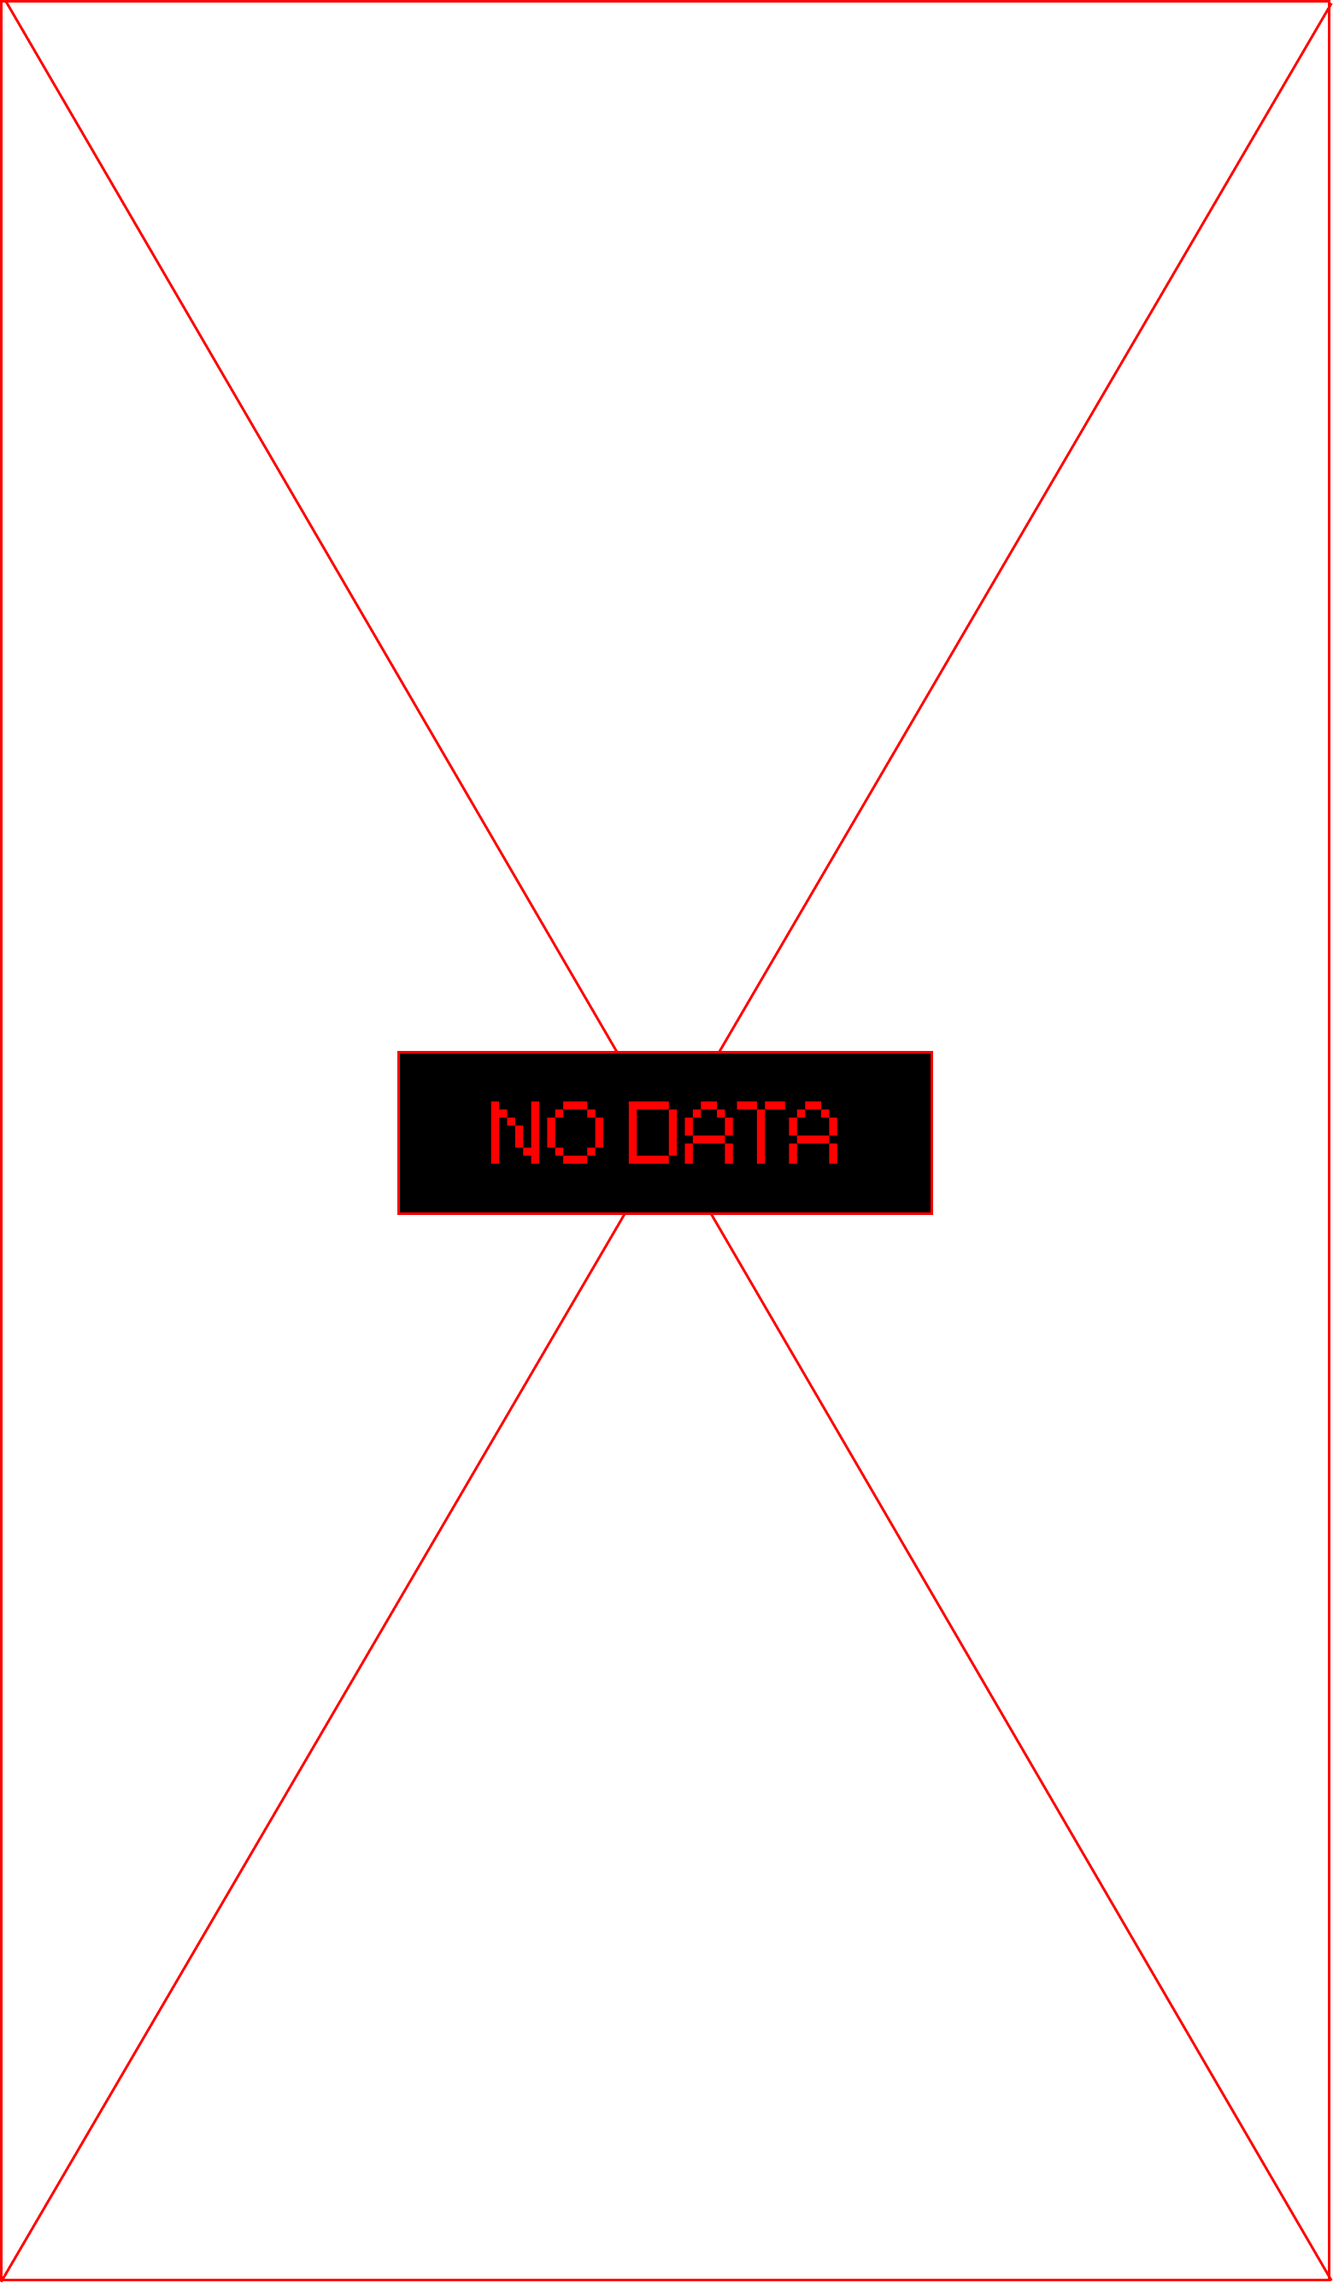
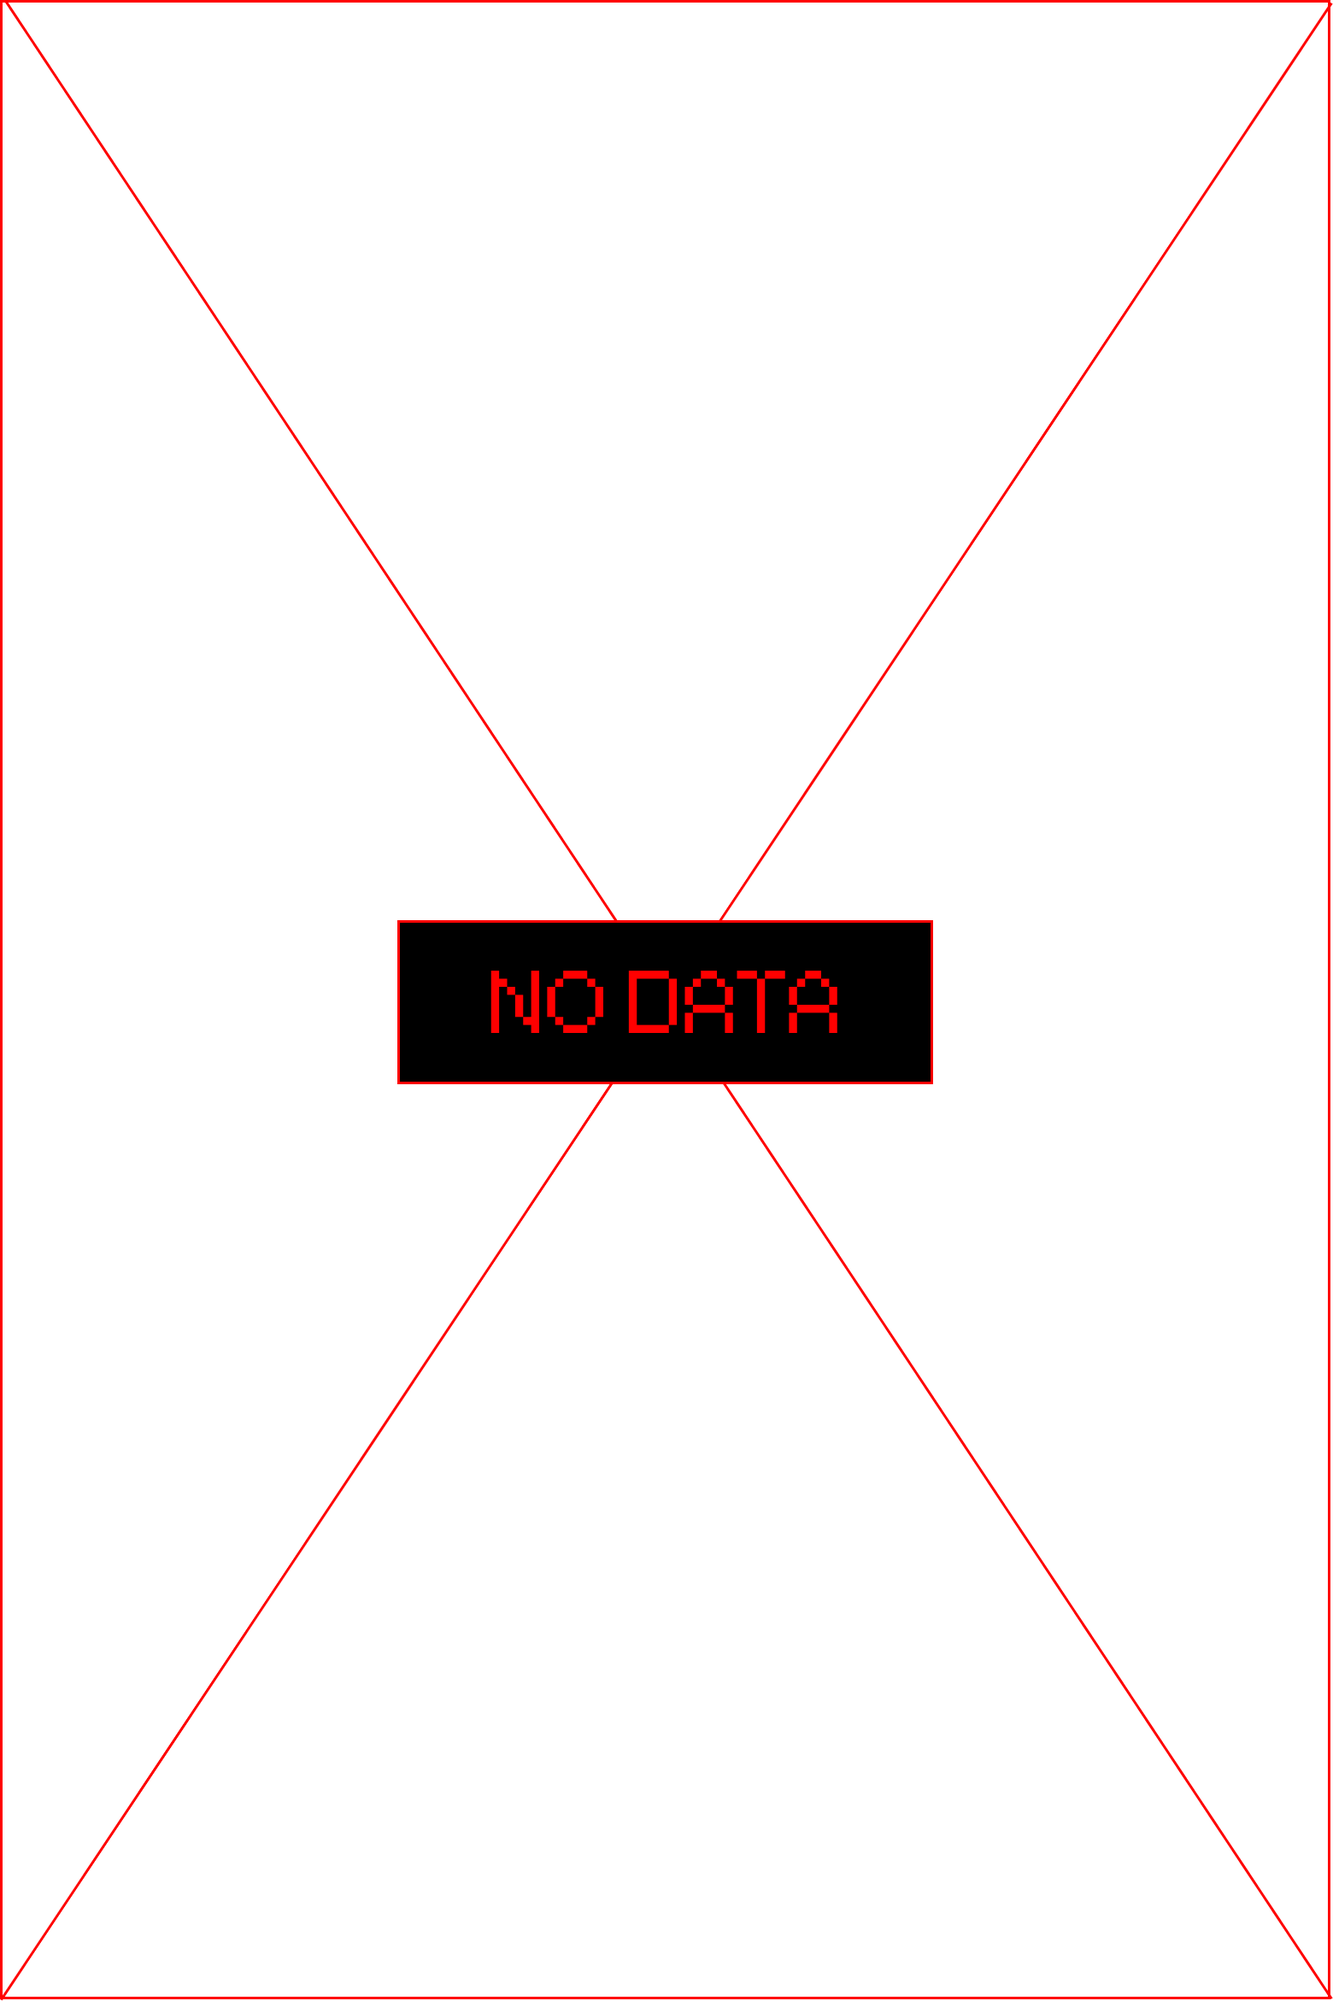
fixed

Changed region(s): [[0.0, 0.9974, 1.0, 1.0], [0.2769, 0.4675, 0.7077, 0.5611]]

diff --git a/pages/index.tsx b/pages/index.tsx
@@ -1,28 +1,43 @@
 import HeaderFooter from "../layout/HeaderFooter";
-import {useState} from "react";
+import { useState } from "react";
 import { Swiper, SwiperSlide } from "swiper/react";
 import { Autoplay, EffectCards, Thumbs, EffectCreative } from "swiper/modules";
 import "swiper/css";
 import Link from "next/link";
 
 export default function Home() {
- 
   return (
     <HeaderFooter>
       <main className="text-white">
-
         <div className=" relative pt-20">
-          <div className=" sm:w-8/12 w-11/12 mx-auto py-20">
-            <h1><img src="/slogan.png"  className=" sm:w-6/12 w-12/12" /></h1>
-            <h2 className="font-[digitalists] text-[#FF0000] text-xl ml-0 sm:ml-40 mt-6 sm:text-left text-center">A System to Combat Bitcoin Ecological Entropy Increase</h2>
-            <p className=" border-l-4 border-[#FF0000] pl-4 ml-0 sm:ml-48 mt-14 text-xs w-12/12 sm:w-8/12 relative leading-4">
-            <i className=" w-60 h-8 bg-[url('/slogan_tips.png')] bg-no-repeat bg-right-top bg-[length:100%_auto] absolute sm:-right-24 right-0 -top-8"></i>
-            REVSis obbrevuation for &apos;Revolution&apos; and &apos;Satoshis,&apos; It is utilising &apos;sats,&apos; the smallest unit, as entropy factors, REVS introduces a resonance mechanism to catalyze entropic fusion. This innovative approach combats the escalating disarray within the Bitcoin ecosystem, striving for a more ordered and stable digital currency environment.</p>
-              {/* <p className=" text-center py-4">
-                <Link href="/launch"><button className="cursor-pointer bg-[#FF0000]  my-4 px-14 py-3 text-xs sm:text-base drop-shadow-[0_5px_5px_rgba(255,0,0,0.75)]">Launch</button></Link>
-              </p> */}
+          <div className=" sm:w-8/12 w-11/12 mx-auto pt-36 pb-0">
+            <h1 className=" pl-24">
+              <img src="/slogan.png" className=" sm:w-8/12 w-12/12" />
+            </h1>
+            <h2 className="font-[digitalists] text-[#FF0000] text-xl ml-0 sm:ml-44 mt-1 sm:text-left text-center">
+              A System to Combat Bitcoin Ecological Entropy Increase
+            </h2>
+            <p className=" border-l-4 border-[#FF0000] pl-4 ml-0 sm:ml-[18rem] mt-8 text-xs w-12/12 sm:w-8/12 relative leading-4">
+              <i className=" w-60 h-8 bg-[url('/slogan_tips.png')] bg-no-repeat bg-right-top bg-[length:100%_auto] absolute sm:-right-24 right-0 -top-8"></i>
+              REVSis obbrevuation for &apos;Revolution&apos; and
+              &apos;Satoshis,&apos; It is utilising &apos;sats,&apos; the
+              smallest unit, as entropy factors, REVS introduces a resonance
+              mechanism to catalyze entropic fusion. This innovative approach
+              combats the escalating disarray within the Bitcoin ecosystem,
+              striving for a more ordered and stable digital currency
+              environment.
+            </p>
+            <p className=" text-center py-4">
+              <Link href="/launch">
+                <button className="cursor-pointer bg-[#FF0000]  my-4 px-14 py-3 text-xs sm:text-base hover:drop-shadow-[0_5px_5px_rgba(255,0,0,0.75)]">
+                  Launch
+                </button>
+              </Link>
+            </p>
           </div>
           <div className="bg-[url('/slogan_cover.png')] bg-no-repeat absolute top-0 left-0 right-0 bottom-0 bg-top bg-[length:80%_auto] -z-10 animate-pulse"></div>
+          <div className="bg-[url('/video_cover.png')] bg-no-repeat absolute h-10 left-0 right-0 bottom-0 bg-top bg-[length:80%_auto] -z-10"></div>
+
           <video
             className="absolute top-0 -z-20 object-cover w-full h-full "
             autoPlay
@@ -33,42 +48,74 @@ export default function Home() {
             <source src="/bg.mp4" type="video/mp4" />
           </video>
         </div>
-        <div className=" sm:w-8/12 w-11/12 mx-auto bg-[url('/project_vison_bg.png')] bg-no-repeat bg-center bg-[length:100%_auto] py-2 sm:py-32 flex gap-12 flex-col sm:flex-row">
-          <div className=" sm:w-6/12 w-12/12">
-            <h1><img src="/project_vision.png" className="w-7/12" /></h1>
-            <p className=" text-xs ml-4 mt-8 leading-4">REVS&apos;s target  is through the mechanism of entropic fusion, that&apos;s to enhance orderliness within the system, reducing the propensity towards chaos. This initiative is set to propel the cryptocurrency market towards greater stability and fairness</p>
-          </div>
-          <div className=" w-12/12 sm:w-6/12 p-4 sm:p-8 h-60 sm:h-80">
-            <div className="border-4 border-[#ff0000] w-full h-full relative z-10">
-              <video
-                className="absolute top-0 -z-20 object-cover w-full h-full "
-                playsInline
-                controls
-                poster="/cover.png"
-              >
-                <source src="/r.mp4" type="video/mp4" />
-              </video>
+        <div className=" bg-[url('/main_bg.png')] bg-no-repeat bg-[length:auto_100%] bg-center">
+          <div className=" sm:w-8/12 w-11/12 mx-auto bg-[url('/project_vison_bg.png')] bg-no-repeat bg-center bg-cover py-2 sm:py-32 flex gap-12 flex-col sm:flex-row">
+            <div className=" sm:w-5/12 w-12/12">
+              <h1>
+                <img src="/project_vision.png" className="w-8/12" />
+              </h1>
+              <p className=" text-xs ml-4 mt-8 leading-4">
+                REVS&apos;s target is through the mechanism of entropic fusion,
+                that&apos;s to enhance orderliness within the system, reducing
+                the propensity towards chaos. This initiative is set to propel
+                the cryptocurrency market towards greater stability and fairness
+              </p>
+            </div>
+            <div className=" w-12/12 sm:w-7/12 px-4 sm:px-8 h-60 sm:h-80">
+              <div className="bg-[url('/video_border.png')] bg-no-repeat bg-[length:100%_100%] p-2 pl-4 pb-4 w-full h-full relative z-10">
+                <video
+                  className="-z-20 object-cover w-full h-full "
+                  playsInline
+                  controls
+                  poster="/cover.png"
+                >
+                  <source src="/r.mp4" type="video/mp4" />
+                </video>
+              </div>
             </div>
           </div>
-        </div>
-        <div className=" bg-[#ff0000]">
-          <div className=" w-12/12 sm:w-8/12 mx-auto flex relative sm:py-14 pt-14 pb-4 sm:pb-4 justify-start sm:justify-end flex-row overflow-hidden pl-4">
-            <img src="/mode.png"  className="w-8/12 sm:w-5/12 absolute -right-20 sm:left-0 top-0 sm:bottom-0"/>
-            <div className="w-9/12 sm:w-7/12">
-              <h1 className="font-[digitalists] text-base sm:text-3xl">Project mechanics and gameplay information:</h1>
-              <h1 className="font-[digitalists] text-base sm:text-3xl">REVS Resonance V Pool Mechanism Introduction</h1>
-              <p className=" text-xs py-6 leading-5">A. The Resonance V pool is an inverted triangle with 3,000 layers, consisting of an unlimited number of layers with different ratios.<br />
-B. Each layer in the pool has a base exchange capacity of 2BTC.<br />
-C. The bottom layer of the inverted triangle is the first layer of the Resonance V pool, and the exchange ratio of this layer is 1:10.<br />
-D. Depending on the number of tokens in the Resonance V pool and the BTC exchange limit, the ratio of BTC to tokens will increase by 10 units for each higher layer.
-increases by 10 units </p>
+          <div className=" bg-[#ff0000]">
+            <div className=" w-12/12 sm:w-8/12 mx-auto flex relative sm:py-8 pt-14 pb-4 sm:pb-4 justify-start sm:justify-end flex-row  pl-4">
+              <img
+                src="/mode.png"
+                className="w-8/12 sm:w-[30%] absolute -right-20 sm:left-0 top-0 sm:top-auto sm:bottom-0 animate-[bounce_5s_linear_infinite]"
+              />
+              <div className="w-9/12 sm:w-8/12">
+                <h1 className="font-[digitalists] text-base sm:text-3xl whitespace-nowrap">
+                  REVS Resonance V Pool Mechanism Introduction
+                </h1>
+                <p className=" text-xs py-6 leading-5">
+                  A. The Resonance V pool is an inverted triangle with 3,000
+                  layers, consisting of an unlimited number of layers with
+                  different ratios.
+                  <br />
+                  B. Each layer in the pool has a base exchange capacity of
+                  2BTC.
+                  <br />
+                  C. The bottom layer of the inverted triangle is the first
+                  layer of the Resonance V pool, and the exchange ratio of this
+                  layer is 1:10.
+                  <br />
+                  D. Depending on the number of tokens in the Resonance V pool
+                  and the BTC exchange limit, the ratio of BTC to tokens will
+                  increase by 10 units for each higher layer. increases by 10
+                  units{" "}
+                </p>
+              </div>
             </div>
           </div>
-        </div>
-        <div className=" bg-[url('/tokenomics_bg.png')] bg-no-repeat bg-center bg-cover py-10 sm:py-32 sm:w-11/12 mx-auto">
-          <h1><img src="/token_title.png" className=" w-10/12 sm:w-4/12 mx-auto" /></h1>
-          <p className=" text-center font-[digitalists] text-base sm:text-2xl text-[#ff0000] py-4 sm:py-10">REVS - 210000000 pieces</p>
-          <img src="/tokenomics.png" className=" w-12/12 sm:w-8/12 mx-auto" />
+          <div className=" bg-[url('/tokenomics_bg.png')] bg-no-repeat bg-center bg-cover py-10 sm:pt-20 sm:pb-40 sm:w-11/12 mx-auto">
+            <h1>
+              <img
+                src="/token_title.png"
+                className=" w-10/12 sm:w-4/12 mx-auto"
+              />
+            </h1>
+            <p className=" text-center font-[digitalists] text-base sm:text-2xl text-[#ff0000] py-4 sm:pt-2 sm:pb-12">
+              REVS - 210000000 pieces
+            </p>
+            <img src="/tokenomics.png" className=" w-12/12 sm:w-8/12 mx-auto" />
+          </div>
         </div>
       </main>
     </HeaderFooter>

diff --git a/pages/launch.tsx b/pages/launch.tsx
@@ -111,17 +111,19 @@ export default function Home() {
   const getMyDataList = async() => {
     if(!!account){
       setShowMyDataList(true)
+      setShowInviteMyDataList(false)
       const {data:myDataList} = await getFloorDataByAddress(account)
       console.log("myDataList", myDataList)
       setMyDataList(myDataList)
     }else{
-      toast('💰 Please Connect wallet', config);
+      toast('❌ Please Connect wallet', config);
     }
   }
 
   const getMyInviteDataList = async() => {
     if(!!account){
       setShowInviteMyDataList(true)
+      setShowMyDataList(false)
       const {data:myInviteDataList} = await getInviteDataByAddress(account)
       console.log("myInviteDataList", myInviteDataList)
       setMyInviteDataList(myInviteDataList)
@@ -217,7 +219,7 @@ export default function Home() {
             </li>)}
         </ul>
       </div>}
-      <main className="text-white   bg-no-repeat bg-top_center text-center bg-[length:100%_auto] pb-20">
+      <main className="text-white   bg-no-repeat bg-top_center text-center bg-[length:100%_auto] pb-40">
         <video
           className="fixed top-0 -z-20 object-cover w-full h-full opacity-70"
           autoPlay
@@ -252,9 +254,9 @@ export default function Home() {
         </div>
         <div className="sm-11/12 sm:w-8/12 mx-auto flex gap-4 sm:flex-row flex-col">
           <div className="w-10/12 mx-auto sm:w-6/12 ">
-            <div className=" bg-[url('/ieo_border.png')] bg-no-repeat bg-[length:100%_100%] px-8 sm:px-12 py-8 ">
+            <div className=" bg-[url('/ieo_border.png')] bg-no-repeat bg-[length:100%_100%] px-8 sm:px-6 py-8 ">
               <ul className=" sm:text-left flex gap-8 sm:flex-row flex-col  text-center">
-                <li className="font-[digitalists] ">
+                <li className="font-[digitalists] w-12/12 sm:w-6/12">
                   <h1>Exchange ratio</h1>
                   <p className=" text-2xl pb-4">1 <span className=" text-[#ff7700] text-base">₿</span> = {30000 - (Math.floor(totalData.btc_amount/2)*10)} <span className=" text-[#ff0000] text-base">REVS</span></p>
                   <h1>My total investment</h1>
@@ -262,7 +264,7 @@ export default function Home() {
                   <h1>Tokens available</h1>
                   <p className=" text-2xl  pb-4">{myData.token_amount} <span className=" text-[#ff0000] text-base">REVS</span></p>
                 </li>
-                <li className=" relative w-62 h-28 mt-0 sm:mt-10 mb-10 sm:mb-0 flex justify-center sm:block ">
+                <li className=" relative w-62 h-28 mt-0 sm:mt-10 mb-10 sm:mb-0 flex justify-center sm:block w-12/12 sm:w-6/12 ">
                     <div className="text-xs absolute top-8 sm:left-16 left-22 text-center z-30">
                         <h1>{totalData.btc_amount.toFixed(4)} Btc</h1>
                         <p>({Math.ceil(totalData.btc_amount/2)}/3000)floor</p>
@@ -315,7 +317,7 @@ export default function Home() {
                 </button>
               </p>
             </div>
-            <div className=" bg-[url('/ieo_border.png')] bg-no-repeat bg-[length:100%_100%] px-8 sm:px-12 py-8 mt-4">
+            <div className=" bg-[url('/ieo_border.png')] bg-no-repeat bg-[length:100%_100%] px-8 sm:px-6 py-8 mt-4">
               <p className="font-[digitalists] flex justify-between text-base">
                 <span>Number of invitees</span>
                 <span>{myData.inviter_btc_amount} BTC</span>
@@ -366,7 +368,7 @@ export default function Home() {
                 Top 10 Luckey Rankings
               </button>
             </div>
-            <div className=" bg-[url('/rank_border.png')] bg-no-repeat bg-[length:100%_100%]  px-8 sm:px-12 py-1 min-h-[54.5rem]">
+            <div className=" bg-[url('/rank_border.png')] bg-no-repeat bg-[length:100%_100%]  px-8 sm:px-6 py-1 min-w-fit sm:min-h-[54.5rem]">
               { tabIndex == 0 && <>
                 <p className="font-[digitalists] flex justify-between pt-0 sm:pt-6 text-base">
                 <span className="text-[#ff0000] text-xs sm:text-base">
@@ -395,6 +397,7 @@ export default function Home() {
                 </span>
               </p>
               <ul>
+                
                 {rankData.length > 0  ?  rankData.map((el, index) => (
                   <li
                     key={index}
@@ -426,8 +429,7 @@ export default function Home() {
                       {el["amount"]}
                     </span>
                   </li>
-                )):<li>
-                  <img src="/no_data.png" className=" w-full my-5 h-full"/>
+                )):<li className=" my-4 bg-[url('/no_data.png')] bg-no-repeat bg-[length:100%_100%] sm:min-h-[48.5rem]">
                 </li>
                 }
               </ul>
@@ -436,7 +438,7 @@ export default function Home() {
               <>
               <p className="font-[digitalists] flex justify-between pt-0 sm:pt-6 text-base">
                 <span className="text-[#ff0000] text-xs sm:text-base">
-                  Top 10 Invitation Fundraising Rankings
+                  Top 10 Luckey Rankings
                 </span>
                 <span className="text-xs sm:text-base flex justify-center items-center">
                   <i onClick={async()=>{
@@ -491,9 +493,8 @@ export default function Home() {
                       {el["amount"]}
                     </span>
                   </li>
-                )):<li>
-                <img src="/no_data.png" className=" w-full my-5 h-full" />
-              </li> 
+                )):<li className=" my-4 bg-[url('/no_data.png')] bg-no-repeat bg-[length:100%_100%] sm:min-h-[48.5rem]">
+                </li> 
                 }
               </ul> 
               </>}

diff --git a/layout/footer.tsx b/layout/footer.tsx
@@ -1,10 +1,10 @@
 export default function Footer() {
   return (
-    <footer className=" text-center">
-        <div className="font-[digitalists] inline-flex bg-[#ff0000] px-4 py-2 rounded-full gap-2 text-white items-center">
+    <footer className=" text-center -mt-20">
+        <div className="font-[digitalists] inline-flex bg-[#ff0000] px-4 py-2 rounded-full gap-4 text-white items-center">
           <div>Social</div>
-          <a target="_blank" href="https://twitter.com/RevsBtc"><img src="/icon_tw.png" className=" w-4 sm:w-8 object-fill cursor-pointer " /></a>
-          <a target="_blank" href="https://t.me/REVS_official"><img src="/icon_tg.png" className=" w-4 sm:w-8 object-fill cursor-pointer" /></a>
+          <a target="_blank" href="https://twitter.com/RevsBtc"><img src="/icon_tw.png" className=" w-4 sm:w-6 object-fill cursor-pointer " /></a>
+          <a target="_blank" href="https://t.me/REVS_official"><img src="/icon_tg.png" className=" w-4 sm:w-6 object-fill cursor-pointer" /></a>
           {/* <div className="bg-[url('/icon_tg.png)] w-40 h-6 bg-no-repeat bg-center"></div>
           <div className="bg-[url('/icon_tw.png)] w-12 h-6 bg-no-repeat bg-center"></div> */}
         </div>
